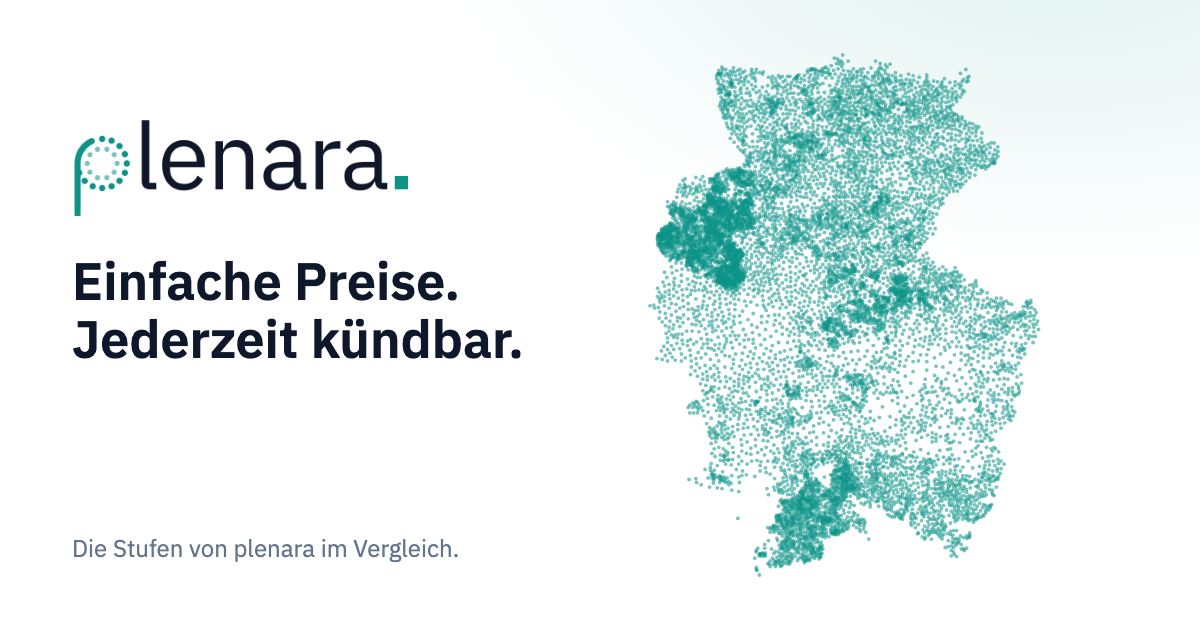
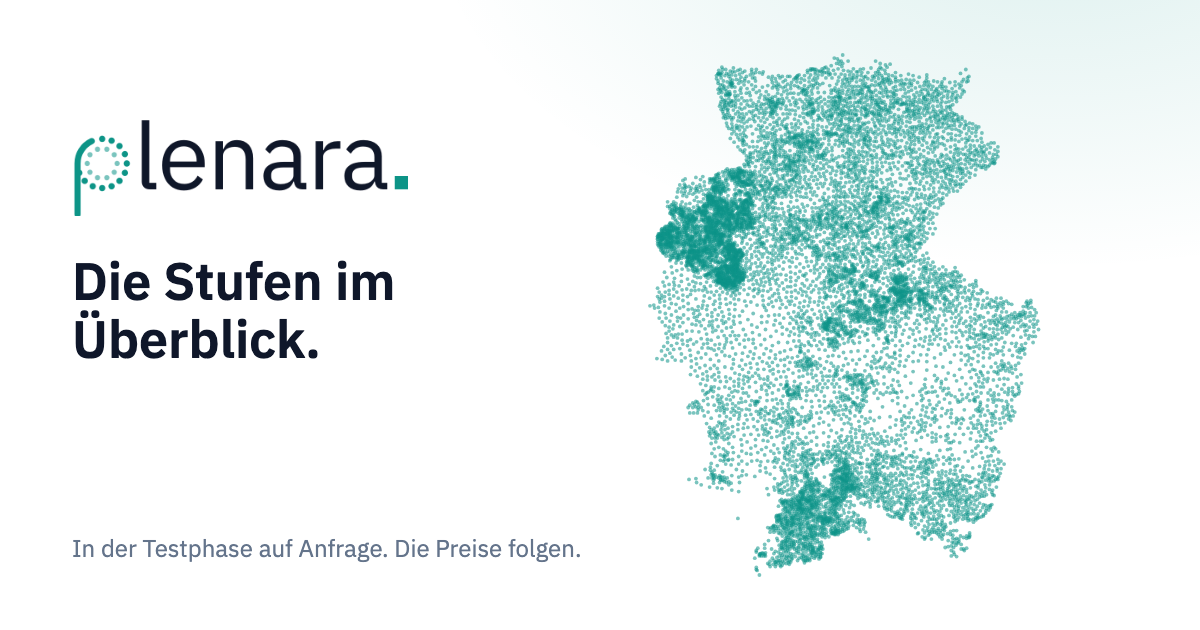
Preise ehrlich (Testphase, keine Preis- und Kündigungsversprechen), Stufe statt Tarif in den sichtbaren Texten

Changed region(s): [[0.0617, 0.3921, 0.4317, 0.573], [0.0617, 0.8444, 0.4933, 0.9048]]

diff --git a/components/ratsmonitor/info/content.ts b/components/ratsmonitor/info/content.ts
@@ -81,32 +81,31 @@ export const FAQ: { group: string; items: Qa[] }[] = [
     ],
   },
   {
-    group: "Alarme und Tarife",
+    group: "Alarme und Stufen",
     items: [
       { q: "Wie funktionieren die Benachrichtigungen und E-Mail-Alarme?", a: "Speichern Sie eine Suche mit dem Herz neben dem Suchfeld. Unter „Gespeicherte Suchen“ schalten Sie für jede Suche E-Mail-Benachrichtigungen ein und wählen, ob Sie sofort, täglich oder wöchentlich informiert werden." },
       { q: "Was ist der Unterschied zwischen gespeicherter Suche und Bookmark?", a: "Eine gespeicherte Suche beobachtet ein Thema oder Gebiet und meldet neue Treffer. Ein Bookmark (gespeicherter Artikel) merkt sich einen einzelnen Vorgang; mit der Glocke werden Sie informiert, wenn er weiter beraten oder beschlossen wird." },
-      { q: "Kann ich meinen Tarif wechseln oder kündigen?", a: "Ja. Sie können jederzeit auf einen höheren Tarif wechseln. Kostenpflichtige Tarife sind jederzeit kündbar, eine Mindestlaufzeit gibt es nicht." },
+      { q: "Kann ich meine Stufe wechseln oder kündigen?", a: "Ja. Sie können jederzeit auf eine höhere Stufe wechseln. Kostenpflichtige Stufen sind jederzeit kündbar, eine Mindestlaufzeit gibt es nicht." },
     ],
   },
   {
     group: "Für Unternehmen und Organisationen",
     items: [
-      { q: "Kann ich plenara im Team nutzen?", a: "Ja. Im Tarif Enterprise gehen Benachrichtigungen an bis zu fünf E-Mail-Adressen oder Verteiler je gespeicherter Suche, etwa an Kolleginnen und Kollegen oder ein Team-Postfach." },
+      { q: "Kann ich plenara im Team nutzen?", a: "Ja. In der Stufe Enterprise gehen Benachrichtigungen an bis zu fünf E-Mail-Adressen oder Verteiler je gespeicherter Suche, etwa an Kolleginnen und Kollegen oder ein Team-Postfach." },
       { q: "Erhalte ich eine Rechnung für mein Unternehmen?", a: "Für Unternehmen und Organisationen stimmen wir Abrechnung und Rechnungsstellung gern individuell ab. Sprechen Sie uns dazu über die Kontaktseite an." },
-      { q: "Kann ich mehrere Regionen oder Themen beobachten?", a: "Ja. Legen Sie für jede Region oder jedes Thema eine eigene gespeicherte Suche an. In einer Suche können Sie außerdem mehrere Orte und mehrere Begriffe kombinieren. Wie viele Suchen Sie speichern können, hängt vom Tarif ab." },
+      { q: "Kann ich mehrere Regionen oder Themen beobachten?", a: "Ja. Legen Sie für jede Region oder jedes Thema eine eigene gespeicherte Suche an. In einer Suche können Sie außerdem mehrere Orte und mehrere Begriffe kombinieren. Wie viele Suchen Sie speichern können, hängt von der Stufe ab." },
       { q: "Was unterscheidet plenara von Vergabeportalen?", a: "Vergabeportale zeigen Ausschreibungen, also das Ende eines Prozesses. plenara zeigt, was davor in Räten und Ausschüssen beraten und beschlossen wird. So sehen Sie Projekte, bevor sie ausgeschrieben werden." },
     ],
   },
 ];
 
 export const PRICE_FAQ: Qa[] = [
-  { q: "Gibt es eine Mindestlaufzeit?", a: "Nein. Kostenpflichtige Tarife sind jederzeit kündbar." },
+  { q: "Was kosten die Stufen?", a: "Die Preise stehen noch nicht fest. In der Testphase schalten wir Stufen auf Anfrage frei. Preise nennen wir hier, bevor eine Stufe kostenpflichtig wird." },
   { q: "Brauche ich für Basic Zahlungsdaten?", a: "Nein. Basic ist kostenlos und ohne Zahlungsdaten nutzbar." },
-  { q: "Sind die Preise inklusive Mehrwertsteuer?", a: "Ja, alle angegebenen Preise verstehen sich inklusive Mehrwertsteuer." },
-  { q: "Kann ich später upgraden?", a: "Ja, ein Wechsel auf einen höheren Tarif ist jederzeit möglich. Ihre gespeicherten Suchen und Artikel bleiben dabei erhalten." },
+  { q: "Kann ich später upgraden?", a: "Ja, ein Wechsel auf eine höhere Stufe ist jederzeit möglich. Ihre gespeicherten Suchen und Artikel bleiben dabei erhalten." },
   { q: "Wie viele Suchen und Artikel kann ich speichern?", a: "Mit Basic eine Suche, einen Artikel und eine Benachrichtigung. Mit Pro und Enterprise jeweils bis zu 100 gespeicherte Suchen, bis zu 100 gespeicherte Artikel und bis zu 100 aktive Benachrichtigungen." },
-  { q: "Welcher Tarif enthält den Sitzungskalender?", a: "Der Sitzungskalender mit Kalender-Abo ist nur im Tarif Enterprise enthalten. Er zeigt die Termine Ihrer Gebiete, auch mit Umkreis, und lässt sich in Apple Kalender, Outlook oder Google Kalender übernehmen." },
-  { q: "Was ist plenara.X und welcher Tarif enthält es?", a: "plenara.X sind die Analysen und Einblicke zu plenara: Atlas mit Ortsvergleich, Signale, Trends mit Ausgang der Vorgänge und Fakten aus den Unterlagen, dazu Fraktionen, Gremien, Themennetz und Aktuelles. Sie sind nur im Tarif Enterprise enthalten. In Basic und Pro bleibt die Suche mit allen Treffern und Benachrichtigungen." },
+  { q: "Welche Stufe enthält den Sitzungskalender?", a: "Der Sitzungskalender mit Kalender-Abo ist nur in der Stufe Enterprise enthalten. Er zeigt die Termine Ihrer Gebiete, auch mit Umkreis, und lässt sich in Apple Kalender, Outlook oder Google Kalender übernehmen." },
+  { q: "Was ist plenara.X und welche Stufe enthält es?", a: "plenara.X sind die Analysen und Einblicke zu plenara: Atlas mit Ortsvergleich, Signale, Trends mit Ausgang der Vorgänge und Fakten aus den Unterlagen, dazu Fraktionen, Gremien, Themennetz und Aktuelles. Sie sind nur in der Stufe Enterprise enthalten. In Basic und Pro bleibt die Suche mit allen Treffern und Benachrichtigungen." },
 ];
 
 export type PlanId = "free" | "pro" | "enterprise";

diff --git a/components/ratsmonitor/components/PlanCards.tsx b/components/ratsmonitor/components/PlanCards.tsx
@@ -19,8 +19,8 @@ const FEATURES: { label: string; tiers: Record<Tier, string | null> }[] = [
 const PLANS: { tier: Tier; note: string; nutzen: string }[] = [
   { tier: "guest", note: "Ohne Anmeldung", nutzen: "Reinschauen: ein Begriff, ganz Deutschland." },
   { tier: "basic", note: "Mit Konto", nutzen: "Ein Thema per E-Mail im Blick behalten." },
-  { tier: "pro", note: "monatlich kündbar", nutzen: "Viele Themen per E-Mail verfolgen, statt täglich zu suchen." },
-  { tier: "enterprise", note: "für Teams · monatlich kündbar", nutzen: "Im Team informiert bleiben, mit Analysen und Kalender." },
+  { tier: "pro", note: "auf Anfrage", nutzen: "Viele Themen per E-Mail verfolgen, statt täglich zu suchen." },
+  { tier: "enterprise", note: "für Teams · auf Anfrage", nutzen: "Im Team informiert bleiben, mit Analysen und Kalender." },
 ];
 
 /* Wie im übrigen Design: schwarze Pille mit Pfeil für die Hauptaktion, sonst Petrol-Text mit Pfeil */
@@ -54,8 +54,8 @@ export function PlanCards({ publicPage = false }: { publicPage?: boolean }) {
   };
   return (
     <section id="tarif" aria-labelledby="tarif-title" className={publicPage ? "" : "mt-6 scroll-mt-20"}>
-      {!publicPage && <h2 id="tarif-title" className="m-0 text-[18px] font-semibold">Tarif</h2>}
-      <div role="tablist" aria-label="Tarif wählen" className="mt-3 flex border-b border-slate-200 sm:hidden">
+      {!publicPage && <h2 id="tarif-title" className="m-0 text-[18px] font-semibold">Stufe</h2>}
+      <div role="tablist" aria-label="Stufe wählen" className="mt-3 flex border-b border-slate-200 sm:hidden">
         {PLANS.map((p) => (
           <button key={p.tier} type="button" role="tab" aria-selected={pick === p.tier} onClick={() => { setPick(p.tier); goTo(p.tier, true); }} className={`-mb-px flex-1 border-b-2 py-2.5 text-[14px] ${pick === p.tier ? "border-teal-600 font-semibold text-teal-700" : "border-transparent text-slate-500"}`}>
             {p.tier === "guest" ? "Gast" : TIER_LABEL[p.tier]}
@@ -69,7 +69,7 @@ export function PlanCards({ publicPage = false }: { publicPage?: boolean }) {
             <div key={plan.tier} className={`flex flex-col max-sm:w-full max-sm:flex-none max-sm:snap-start border-t-2 pb-2 pt-5 lg:pr-2 ${current ? "border-teal-600" : plan.tier === "pro" && publicPage ? "border-slate-900 bg-slate-50 px-4 sm:-mt-2 sm:pt-7" : "border-slate-200"}`}>
               <div className="flex items-center justify-between gap-2">
                 <h3 className="m-0 text-[16px] font-semibold">{plan.tier === "guest" ? "Ohne Konto" : TIER_LABEL[plan.tier]}</h3>
-                {current && <span className="rounded-full bg-teal-700 px-2 py-0.5 text-[12px] font-semibold text-white">{plan.tier === "guest" ? "Ihr Status" : "Ihr Tarif"}</span>}
+                {current && <span className="rounded-full bg-teal-700 px-2 py-0.5 text-[12px] font-semibold text-white">{plan.tier === "guest" ? "Ihr Status" : "Ihre Stufe"}</span>}
                 {publicPage && plan.tier === "pro" && <span className="text-[12px] font-semibold text-teal-800">Beliebt</span>}
               </div>
               <p className="m-0 mt-2 text-[22px] font-bold tracking-tight">{priceLabel(plan.tier)}</p>
@@ -126,7 +126,7 @@ export function PlanSummary() {
   const name = tier === "guest" ? (user ? "Konto ohne freigeschaltete Stufe" : "Ohne Konto") : TIER_LABEL[tier];
   return (
     <section id="tarif" aria-labelledby="tarif-title" className="mt-6 scroll-mt-20">
-      <h2 id="tarif-title" className="m-0 text-[18px] font-semibold">Tarif</h2>
+      <h2 id="tarif-title" className="m-0 text-[18px] font-semibold">Stufe</h2>
       <p className="m-0 mt-3 text-[16px] font-semibold">
         {name} {tier !== "guest" && <span className="font-normal text-slate-500">· {priceLabel(tier)} · {plan.note}</span>}
       </p>
@@ -147,7 +147,7 @@ export function PlanSummary() {
           ) : null;
         })}
       </ul>
-      <Link href="/preise" className={SECONDARY}>Alle Tarife ansehen</Link>
+      <Link href="/preise" className={SECONDARY}>Alle Stufen ansehen</Link>
     </section>
   );
 }

diff --git a/components/ratsmonitor/pages/KalenderPage.tsx b/components/ratsmonitor/pages/KalenderPage.tsx
@@ -148,10 +148,10 @@ export function KalenderPage() {
   const dayLabel = day ? new Date(day + "T00:00:00").toLocaleDateString("de-DE", { weekday: "long", day: "numeric", month: "long" }) : "";
   const regionName = (ags: string) => geo?.info(ags).name ?? regions?.find((r) => r.ags === ags)?.name ?? ags;
 
-  /* Nur Enterprise: alle anderen sehen, was der Kalender kann, und den Weg zum Tarif */
+  /* Nur Enterprise: alle anderen sehen, was der Kalender kann, und den Weg zur Stufe */
   const head = <PageHead icon="calendar" label="Kalender" name="Sitzungskalender" />;
   if (!tierReady) return <>{head}<section className="ri-sec ri-sec--tight"><AccountLoading /></section></>;
-  if (!me.user) return <>{head}<section className="ri-sec ri-sec--tight"><LoginRequired title="Sitzungskalender" text="Melden Sie sich an. Der Sitzungskalender ist Teil des Enterprise-Tarifs." /></section></>;
+  if (!me.user) return <>{head}<section className="ri-sec ri-sec--tight"><LoginRequired title="Sitzungskalender" text="Melden Sie sich an. Der Sitzungskalender ist Teil der Stufe Enterprise." /></section></>;
   if (!limits.calendar) return <KalenderTeaser />;
   if (!loaded) return <>{head}<section className="ri-sec ri-sec--tight"><AccountLoading /></section></>;
   return (
@@ -347,11 +347,11 @@ const CAL_POINTS: [string, string][] = [
   ["Tagesordnung vorab", "Zu jedem Termin die beratenen Vorgänge, bevor entschieden wird."],
 ];
 
-/** Kalender für Tarife ohne Kalender: was er kann, und der Weg zu Enterprise */
+/** Kalender für Stufen ohne Kalender: was er kann, und der Weg zu Enterprise */
 function KalenderTeaser() {
   return (
     <>
-      <PageHead icon="calendar" label="Kalender" name="Sitzungskalender" title={<>Alle Termine. In Ihren Gebieten.</>} lead="Der Sitzungskalender ist Teil des Enterprise-Tarifs." />
+      <PageHead icon="calendar" label="Kalender" name="Sitzungskalender" title={<>Alle Termine. In Ihren Gebieten.</>} lead="Der Sitzungskalender ist Teil der Stufe Enterprise." />
       <section className="ri-sec ri-sec--tight">
         <h2 className="ri-h2">Was der Kalender kann</h2>
         <div className="ri-points ri-points--2">

diff --git a/components/ratsmonitor/pages/ProfilePage.tsx b/components/ratsmonitor/pages/ProfilePage.tsx
@@ -19,7 +19,7 @@ const h2 = "m-0 text-[18px] font-semibold";
 const block = "mt-10 border-t border-slate-200 pt-6";
 const link = "text-[14px] font-medium text-teal-700 hover:underline disabled:opacity-50";
 
-/** Kontoseite: Angaben, Tarif, Geräte, Kalender-Abo, Daten aus diesem Browser, Datenauskunft, Löschen, Abmelden */
+/** Kontoseite: Angaben, Stufe, Geräte, Kalender-Abo, Daten aus diesem Browser, Datenauskunft, Löschen, Abmelden */
 export function ProfilePage() {
   const me = useMe();
   const account = useAccount();
@@ -45,7 +45,7 @@ export function ProfilePage() {
     );
   return (
     <>
-      <PageHead icon="user" label="Konto" name="Mein Konto" title={<>Ihre Angaben. Ihr Tarif.</>} lead="Angaben, Tarif, angemeldete Geräte und Ihre Daten an einem Ort." />
+      <PageHead icon="user" label="Konto" name="Mein Konto" title={<>Ihre Angaben. Ihre Stufe.</>} lead="Angaben, Stufe, angemeldete Geräte und Ihre Daten an einem Ort." />
       <section className="ri-sec ri-sec--tight">
         {account.ready && !account.saved.length && (
           <div className="mb-8 flex flex-wrap items-center gap-x-4 gap-y-2 rounded-xl border border-slate-200 bg-slate-50 px-4 py-3">
@@ -359,7 +359,7 @@ function Export() {
   return (
     <section className={block} aria-labelledby="export-title">
       <h2 id="export-title" className={h2}>Ihre Daten</h2>
-      <p className="m-0 mt-1 text-[14px] text-slate-500">Alle Daten Ihres Kontos als Datei (JSON): Angaben, Tarif, Zustimmungen, gespeicherte Suchen und Artikel, Geräte und Anmeldungen.</p>
+      <p className="m-0 mt-1 text-[14px] text-slate-500">Alle Daten Ihres Kontos als Datei (JSON): Angaben, Stufe, Zustimmungen, gespeicherte Suchen und Artikel, Geräte und Anmeldungen.</p>
       {status && <p role="status" className="m-0 mt-2 text-[14px] text-slate-600">{status}</p>}
       {step === "idle" ? (
         <>

diff --git a/components/ratsmonitor/info/FaqPage.tsx b/components/ratsmonitor/info/FaqPage.tsx
@@ -12,11 +12,11 @@ export function FaqPage() {
   const groups = FAQ.map((g) => ({ ...g, items: g.items.filter((qa) => !n || (qa.q + " " + (qa.a ?? "")).toLowerCase().includes(n)) })).filter((g) => g.items.length);
   return (
     <>
-      <PageHead icon="circleHelp" label="Informationen" name="FAQ" title={<>Häufige Fragen. Kurz beantwortet.</>} lead={`Die wichtigsten Antworten zu ${name}, Alarmen, Tarifen und zur Nutzung im Unternehmen.`} />
+      <PageHead icon="circleHelp" label="Informationen" name="FAQ" title={<>Häufige Fragen. Kurz beantwortet.</>} lead={`Die wichtigsten Antworten zu ${name}, Alarmen, Stufen und zur Nutzung im Unternehmen.`} />
       <section className="ri-sec ri-sec--faq">
         <label className="relative mb-8 block max-w-[560px]">
           <span className="sr-only">Fragen durchsuchen</span>
-          <input type="search" value={find} onChange={(e) => setFind(e.target.value)} placeholder="Fragen durchsuchen, z. B. Benachrichtigung, Tarif, Team …" className="h-11 w-full rounded-xl border border-transparent bg-slate-50 px-4 text-[16px] outline-none placeholder:text-slate-400 focus:border-teal-600 focus:bg-white focus:shadow-focus" />
+          <input type="search" value={find} onChange={(e) => setFind(e.target.value)} placeholder="Fragen durchsuchen, z. B. Benachrichtigung, Stufe, Team …" className="h-11 w-full rounded-xl border border-transparent bg-slate-50 px-4 text-[16px] outline-none placeholder:text-slate-400 focus:border-teal-600 focus:bg-white focus:shadow-focus" />
         </label>
         {!groups.length && <p className="text-slate-500">Keine passende Frage gefunden. Schreiben Sie uns gern über die Kontaktseite.</p>}
         {groups.map((g) => (

diff --git a/components/ratsmonitor/info/AnwenderLive.tsx b/components/ratsmonitor/info/AnwenderLive.tsx
@@ -147,11 +147,11 @@ export function AnwenderLivePage({ b }: { b: Branche }) {
         <p className="m-0 text-[14px] text-slate-500" style={{ marginTop: 12 }}>Kostenlos und ohne Anmeldung. <Link href="/preise" className="text-teal-700 hover:underline">Preise</Link></p>
       </section>
 
-      {/* plenara.X: schmale Zeile am Ende (Tarif Enterprise) */}
+      {/* plenara.X: schmale Zeile am Ende (Stufe Enterprise) */}
       {b.plenarax && (
         <section className="ri-sec ri-sec--tight">
           <p className="m-0 text-[14px] text-slate-500">
-            <span className="font-semibold text-slate-900">Mehr mit plenara.X</span> (Tarif Enterprise):{" "}
+            <span className="font-semibold text-slate-900">Mehr mit plenara.X</span> (Stufe Enterprise):{" "}
             {b.plenarax.map(([titel, , link], i) => <span key={link}>{i ? " · " : ""}<Link href={link} className="text-teal-700 hover:underline">{titel} →</Link></span>)}
           </p>
         </section>

diff --git a/components/ratsmonitor/pages/analytics/AnalyticsLocked.tsx b/components/ratsmonitor/pages/analytics/AnalyticsLocked.tsx
@@ -24,7 +24,7 @@ export function AnalyticsLocked({ path = "" }: { path?: string }) {
       <PageBand>
         <p className="text-[14px] text-slate-500">plenara.X</p>
         <h1 className="mb-6 mt-4"><span className="sr-only">plenara.X</span><AnalyticsLogo size={56} /></h1>
-        <p className="mt-3 max-w-[680px] text-[18px] text-slate-500">Die Analysen von plenara.X gehören zum Tarif Enterprise, für Organisationen, in denen mehrere Personen informiert werden sollen.</p>
+        <p className="mt-3 max-w-[680px] text-[18px] text-slate-500">Die Analysen von plenara.X gehören zur Stufe Enterprise, für Organisationen, in denen mehrere Personen informiert werden sollen.</p>
         <div className="mt-6 flex flex-wrap items-center gap-3">
           <Link href="/kontakt" className="btn-primary">Enterprise: {UPGRADE_TEXT}</Link>
           <Link href="/preise" className="btn-secondary">Was kann plenara.X?</Link>

diff --git a/components/ratsmonitor/info/BranchenPages.tsx b/components/ratsmonitor/info/BranchenPages.tsx
@@ -37,7 +37,7 @@ function EnterpriseSection({ terms }: { terms: string[] }) {
     <section className="ri-sec" style={{ backgroundImage: "linear-gradient(to bottom, rgba(255,255,255,0) 40%, var(--rm-page) 100%), radial-gradient(circle, var(--rm-dot) 1.3px, transparent 1.8px)", backgroundSize: "100% 100%, 22px 22px" }}>
       <div className="flex flex-wrap items-center gap-x-5 gap-y-2" style={{ marginTop: -40 }}>
         <AnalyticsLogo size={32} />
-        <p className="m-0 text-[14px] text-slate-500">Im Tarif Enterprise</p>
+        <p className="m-0 text-[14px] text-slate-500">In der Stufe Enterprise</p>
       </div>
       
       <div className="grid gap-x-10 gap-y-8 sm:grid-cols-3" style={{ marginTop: 24 }}>

diff --git a/components/ratsmonitor/info/PreisePage.tsx b/components/ratsmonitor/info/PreisePage.tsx
@@ -25,8 +25,8 @@ export function PreisePage() {
         icon="tag"
         label="Informationen"
         name="Preise"
-        title="Einfache Preise. Jederzeit kündbar."
-        lead="Durchsuchen Sie die Ratsinformationen der Kommunen und lassen Sie sich per E-Mail informieren, sobald zu Ihrem Thema etwas beraten wird."
+        title="Die Stufen im Überblick."
+        lead="In der Testphase schalten wir Stufen auf Anfrage frei. Die Preise folgen."
       />
       <section className="ri-sec ri-sec--prices">
         {/* Gleiche Tarifkarten wie im Konto */}

diff --git a/app/(monitor)/preise/page.tsx b/app/(monitor)/preise/page.tsx
@@ -1,3 +1,3 @@
 import {pageMeta} from '../page-meta';
-export const metadata=pageMeta('Preise','Die Stufen von plenara im Vergleich: ohne Konto, Basic, Pro und Enterprise. Jederzeit kündbar.','/og/preise.png');
+export const metadata=pageMeta('Preise','Die Stufen von plenara im Vergleich: ohne Konto, Basic, Pro und Enterprise. In der Testphase auf Anfrage.','/og/preise.png');
 export default function Page(){return null;}
